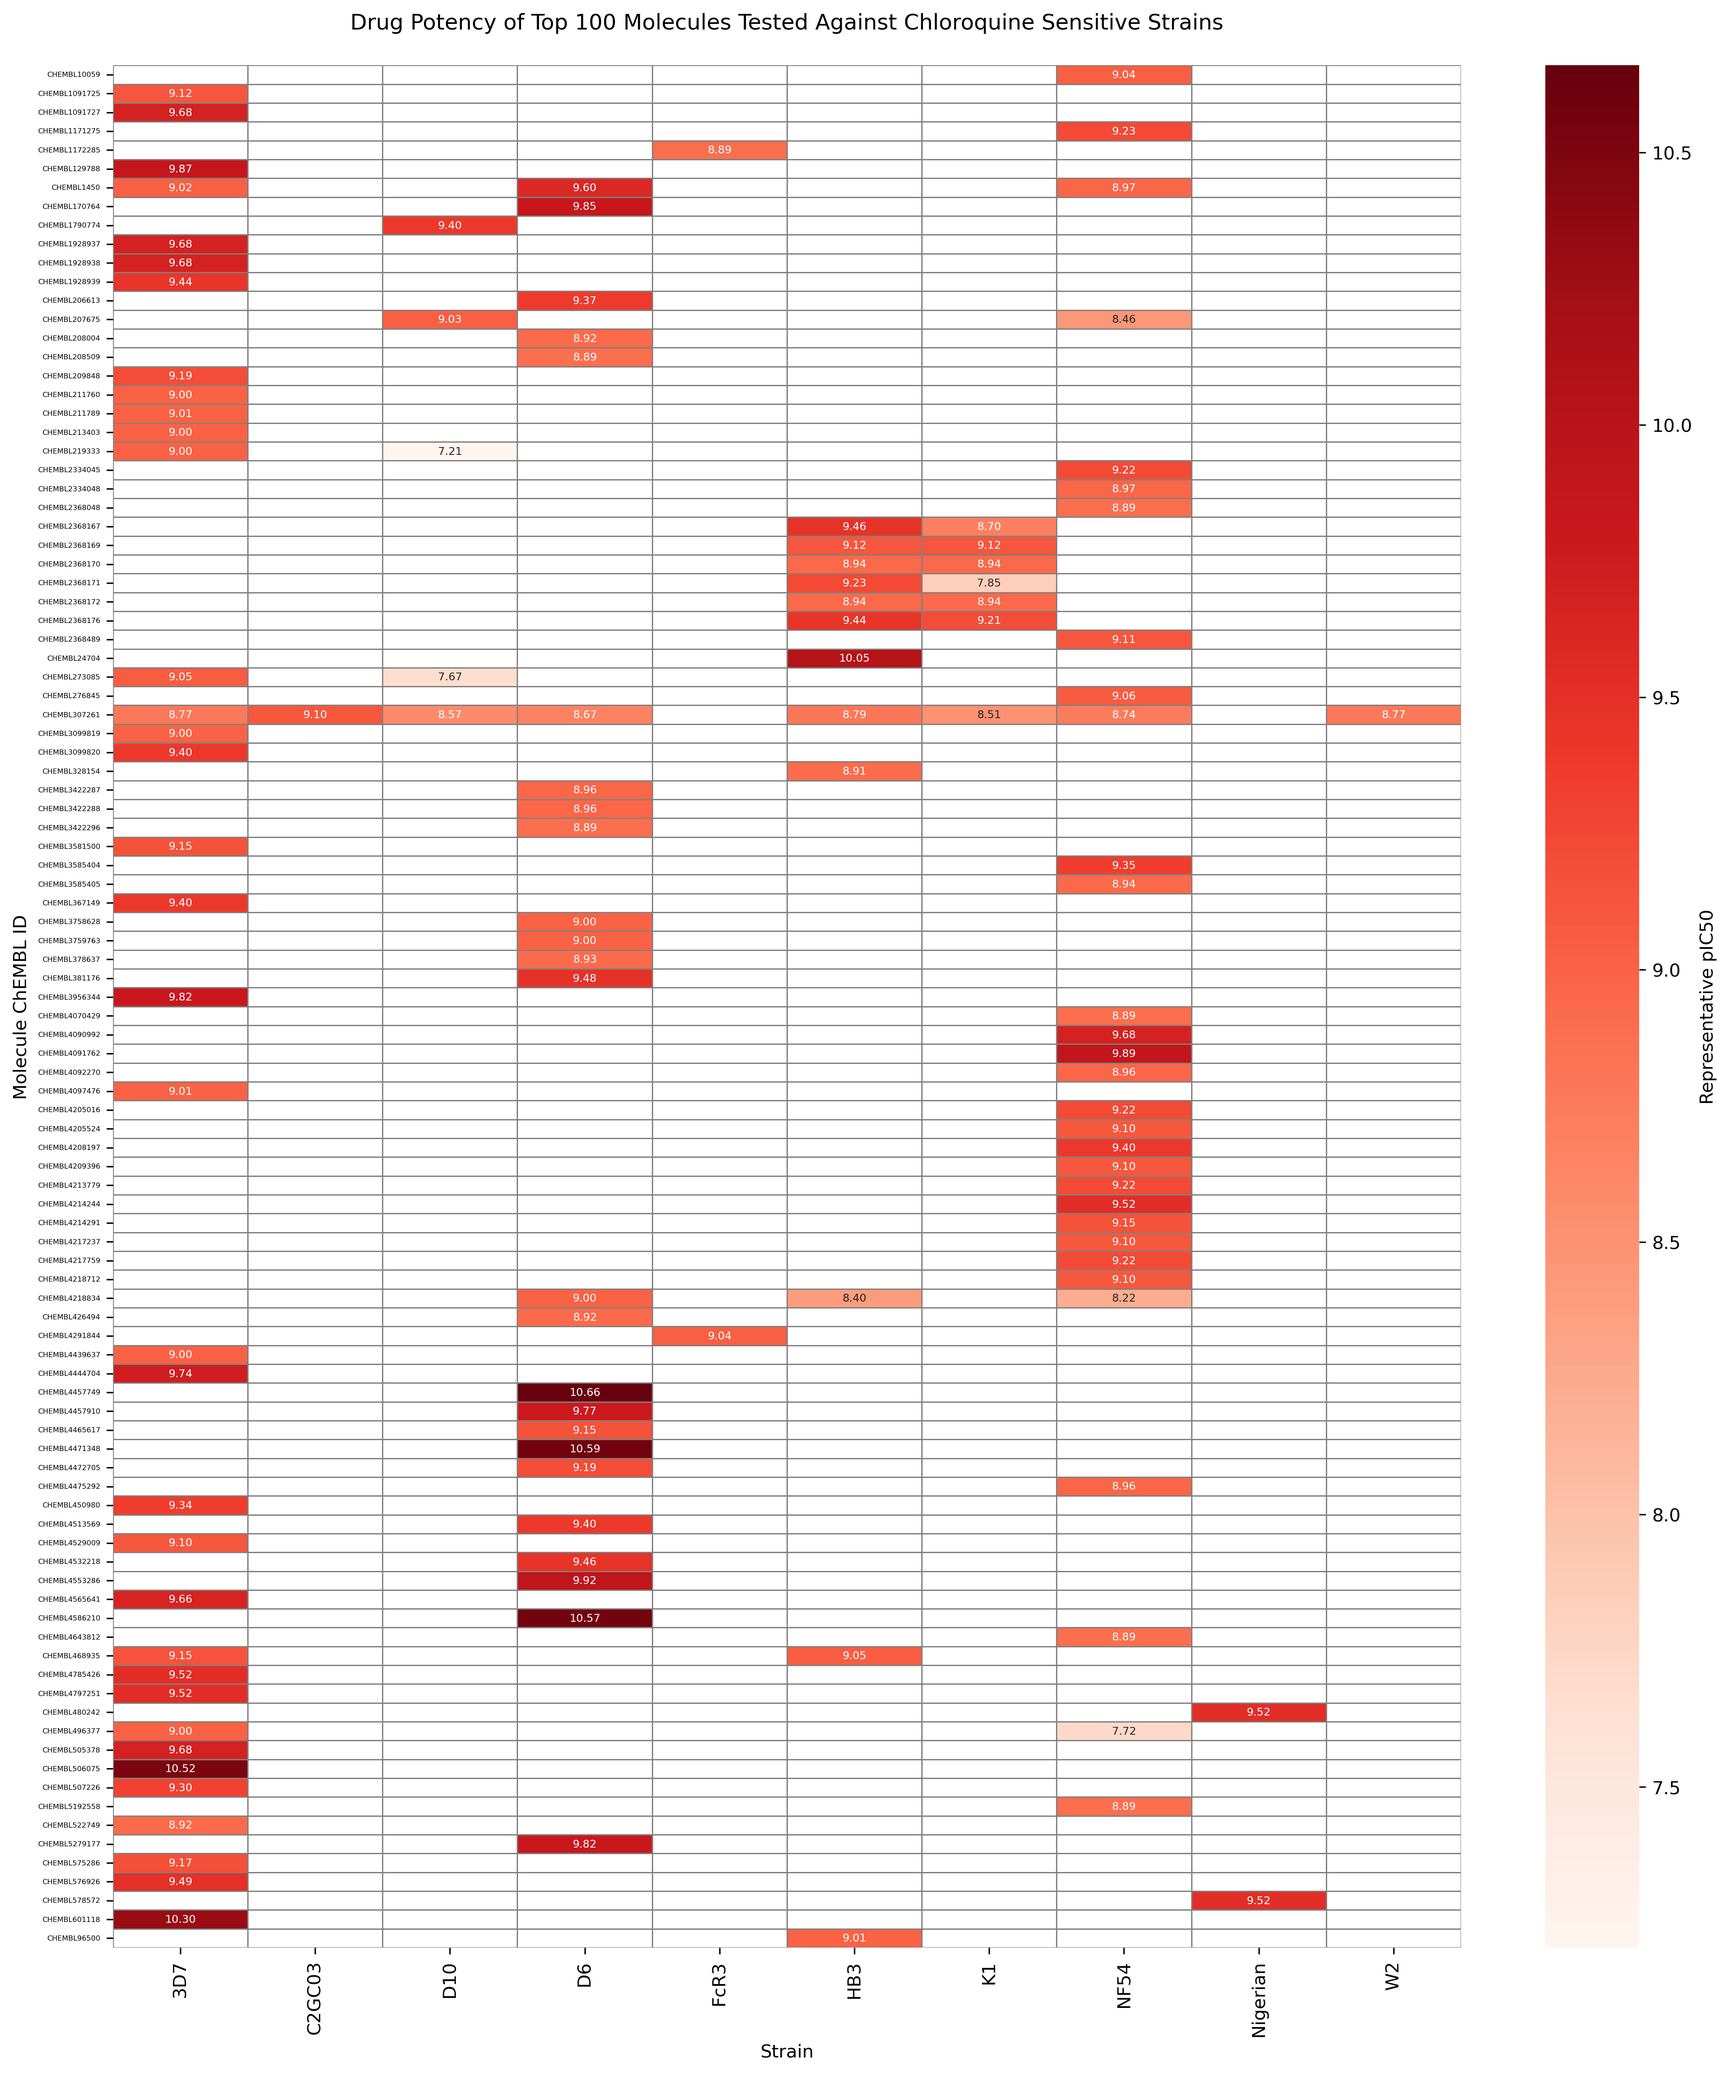
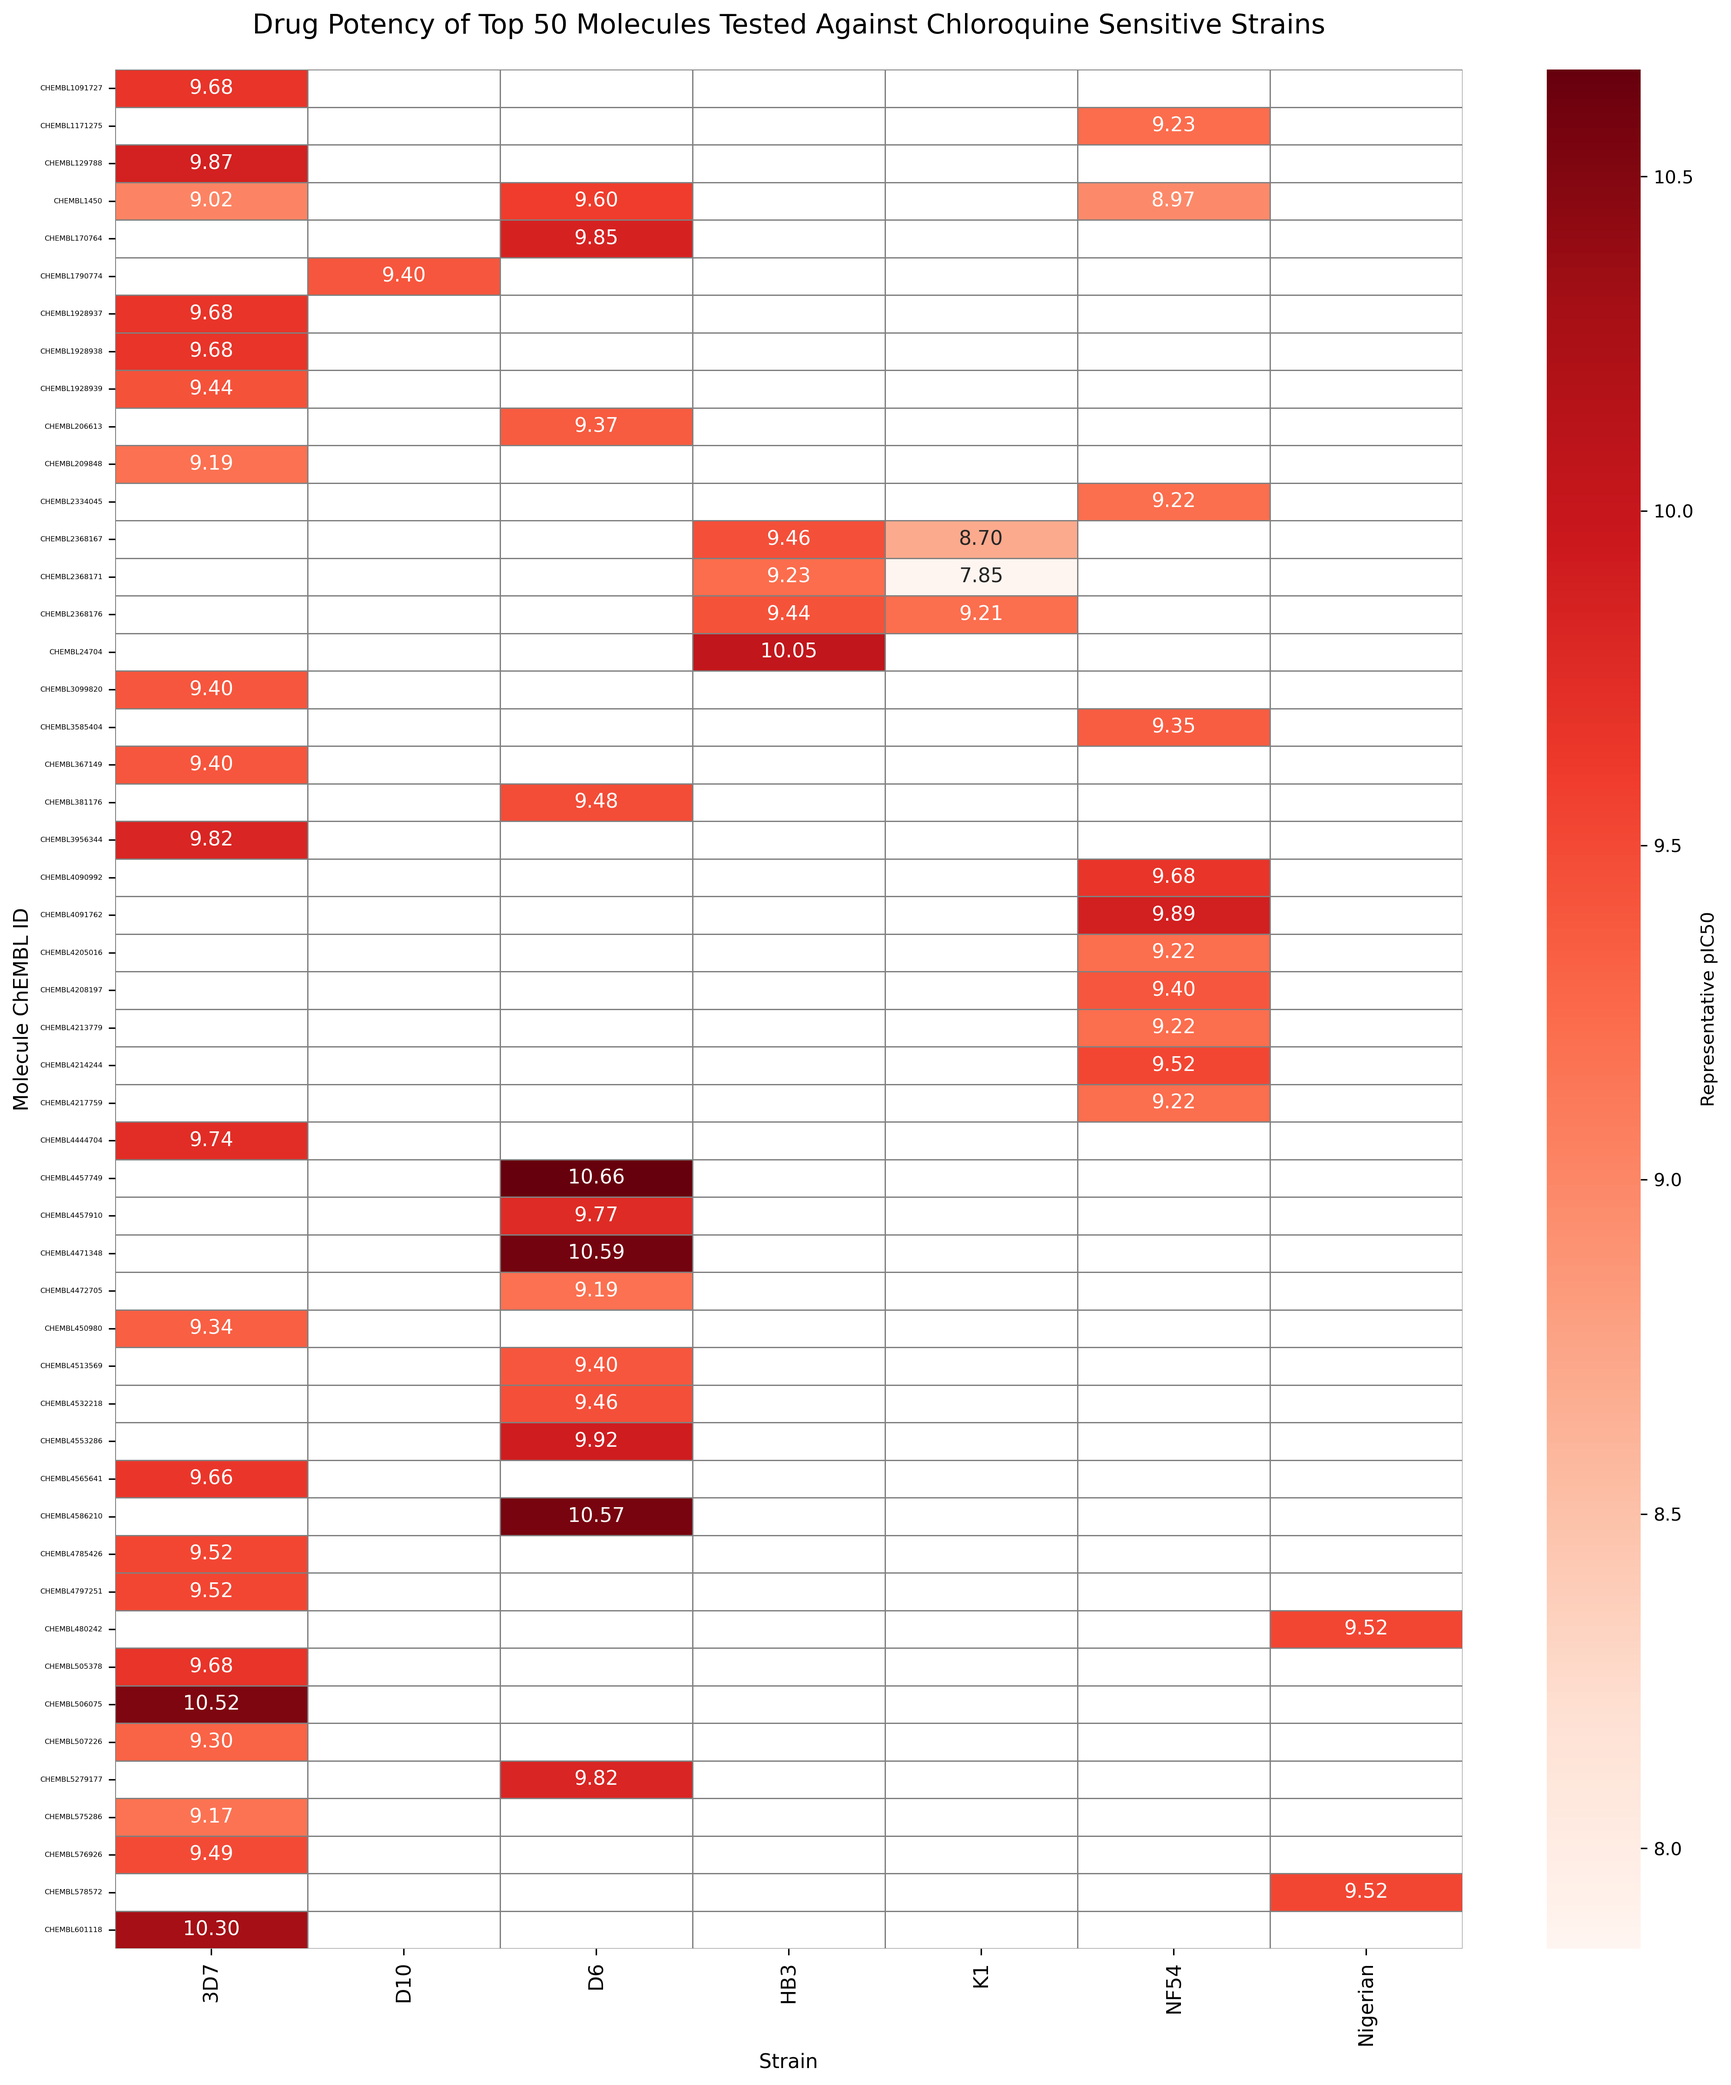
changes to heatmap from 100 to 50

Changed region(s): [[0.0, 0.0, 0.841, 0.9987], [0.9656, 0.437, 0.9967, 0.5306]]

diff --git a/p1_preprocessing/3 - Data visualizations before splits/drug_resistance/2_gen_drug_resistance_heatmap.py b/p1_preprocessing/3 - Data visualizations before splits/drug_resistance/2_gen_drug_resistance_heatmap.py
@@ -1,6 +1,10 @@
 ''' Description: This script uses the CSV file generated from the Step 1. 1_mapping_drug_resistance.py
-to create heatmaps for different drug resistance flags. It visualizes the drug potency of the top 100 molecules
-tested against various strains, categorized by their resistance flags.'''
+to create heatmaps for different drug resistance flags. It visualizes the drug potency of the top 50 molecules
+tested against various strains, categorized by their resistance flags.
+
+Requirements:
+* Final Data with Flags from step 1_mapping_drug_resistance.py
+'''
 
 # Imports
 import pandas as pd
@@ -15,22 +19,22 @@ df_clean = df.dropna(subset=['Representative_pIC50'])
 # Filter for "CQR"
 df_cqr = df_clean[df_clean['Flag Groups'].str.contains('CQR', na=False)]
 
-# Top 100 by Representative_pIC50
+# Top 50 by Representative_pIC50
 top_molecules = (
     df_cqr
     .groupby('Molecule_ChEMBL_ID')['Representative_pIC50']
     .max()
     .sort_values(ascending=False)
-    .head(100)
+    .head(50)
     .index
 )
 
 # Subset original CQR data to only top molecules
-df_top100_mols = df_cqr[df_cqr['Molecule_ChEMBL_ID'].isin(top_molecules)]
+df_top50_mols = df_cqr[df_cqr['Molecule_ChEMBL_ID'].isin(top_molecules)]
 
 
 # Pivot to matrix for heatmap
-heatmap_data = df_top100_mols.pivot_table(
+heatmap_data = df_top50_mols.pivot_table(
     index='Molecule_ChEMBL_ID',
     columns='standardized_strain',
     values='Representative_pIC50'
@@ -52,19 +56,19 @@ ax = sns.heatmap(
     annot=True,
     fmt='.2f',
     cbar_kws={'label': 'Representative pIC50'},
-    annot_kws={'size': 6},
+    annot_kws={'size': 11},
     linewidths=0.25,
     linecolor='gray'
 )
 
 # Rotate axis labels
-ax.set_xticklabels(ax.get_xticklabels(), rotation=90, ha='center', fontsize=10)
+ax.set_xticklabels(ax.get_xticklabels(), rotation=90, ha='center', fontsize=11)
 ax.set_yticklabels(ax.get_yticklabels(), rotation=0, fontsize=4)
 
 # Layout and title
-plt.title("Drug Potency of Top 100 Molecules Tested Against Chloroquine Resistant Strains", pad=20)
-plt.xlabel('Strain')
-plt.ylabel('Molecule ChEMBL ID')
+plt.title("Drug Potency of Top 50 Molecules Tested Against Chloroquine Resistant Strains", pad=20, fontsize=15)
+plt.xlabel('Strain', fontsize=11)
+plt.ylabel('Molecule ChEMBL ID', fontsize=11)
 plt.tight_layout()
 plt.subplots_adjust(bottom=0.25)
 plt.savefig('./p1_preprocessing/3 - Data visualizations before splits/drug_resistance/cqr_hm.png', dpi=300, bbox_inches='tight')
@@ -73,21 +77,21 @@ plt.savefig('./p1_preprocessing/3 - Data visualizations before splits/drug_resis
 # Filter for "MEFR"
 df_cqr = df_clean[df_clean['Flag Groups'].str.contains('MEFR', na=False)]
 
-# Top 100 by Representative_pIC50
+# Top 50 by Representative_pIC50
 top_molecules = (
     df_cqr
     .groupby('Molecule_ChEMBL_ID')['Representative_pIC50']
     .max()
     .sort_values(ascending=False)
-    .head(100)
+    .head(50)
     .index
 )
 
 # Subset original CQR data to only top molecules
-df_top100_mols = df_cqr[df_cqr['Molecule_ChEMBL_ID'].isin(top_molecules)]
+df_top50_mols = df_cqr[df_cqr['Molecule_ChEMBL_ID'].isin(top_molecules)]
 
 # Pivot to matrix for heatmap
-heatmap_data = df_top100_mols.pivot_table(
+heatmap_data = df_top50_mols.pivot_table(
     index='Molecule_ChEMBL_ID',
     columns='standardized_strain',
     values='Representative_pIC50'
@@ -109,19 +113,19 @@ ax = sns.heatmap(
     annot=True,
     fmt='.2f',
     cbar_kws={'label': 'Representative pIC50'},
-    annot_kws={'size': 6},
+    annot_kws={'size': 11},
     linewidths=0.25,
     linecolor='gray'
 )
 
 # Rotate axis labels
-ax.set_xticklabels(ax.get_xticklabels(), rotation=90, ha='center', fontsize=10)
+ax.set_xticklabels(ax.get_xticklabels(), rotation=90, ha='center', fontsize=11)
 ax.set_yticklabels(ax.get_yticklabels(), rotation=0, fontsize=4)
 
 # Adjust layout and title
-plt.title("Drug Potency of Top 100 Molecules Tested Against Mefloquine Resistant Strains", pad=20)
-plt.xlabel('Strain')
-plt.ylabel('Molecule ChEMBL ID')
+plt.title("Drug Potency of Top 50 Molecules Tested Against Mefloquine Resistant Strains", pad=20, fontsize=15)
+plt.xlabel('Strain', fontsize=11)
+plt.ylabel('Molecule ChEMBL ID', fontsize=11)
 plt.tight_layout()
 plt.subplots_adjust(bottom=0.25) 
 plt.savefig('./p1_preprocessing/3 - Data visualizations before splits/drug_resistance/mefr_hm.png', dpi=300, bbox_inches='tight')
@@ -130,21 +134,21 @@ plt.savefig('./p1_preprocessing/3 - Data visualizations before splits/drug_resis
 # Filter for "PYRR"
 df_cqr = df_clean[df_clean['Flag Groups'].str.contains('PYRR', na=False)]
 
-# Top 100 by Representative_pIC50
+# Top 50 by Representative_pIC50
 top_molecules = (
     df_cqr
     .groupby('Molecule_ChEMBL_ID')['Representative_pIC50']
     .max()
     .sort_values(ascending=False)
-    .head(100)
+    .head(50)
     .index
 )
 
 # Subset original CQR data to only top molecules
-df_top100_mols = df_cqr[df_cqr['Molecule_ChEMBL_ID'].isin(top_molecules)]
+df_top50_mols = df_cqr[df_cqr['Molecule_ChEMBL_ID'].isin(top_molecules)]
 
 # Pivot to matrix for heatmap
-heatmap_data = df_top100_mols.pivot_table(
+heatmap_data = df_top50_mols.pivot_table(
     index='Molecule_ChEMBL_ID',
     columns='standardized_strain',
     values='Representative_pIC50'
@@ -166,19 +170,19 @@ ax = sns.heatmap(
     annot=True,
     fmt='.2f',
     cbar_kws={'label': 'Representative pIC50'},
-    annot_kws={'size': 6},
+    annot_kws={'size': 11},
     linewidths=0.25,
     linecolor='gray'
 )
 
 # Rotate axis labels
-ax.set_xticklabels(ax.get_xticklabels(), rotation=90, ha='center', fontsize=10)
+ax.set_xticklabels(ax.get_xticklabels(), rotation=90, ha='center', fontsize=11)
 ax.set_yticklabels(ax.get_yticklabels(), rotation=0, fontsize=4)
 
 # Adjust layout and title
-plt.title("Drug Potency of Top 100 Molecules Tested Against Pyrimethamine Resistant Strains", pad=20)
-plt.xlabel('Strain')
-plt.ylabel('Molecule ChEMBL ID')
+plt.title("Drug Potency of Top 50 Molecules Tested Against Pyrimethamine Resistant Strains", pad=20, fontsize=15)
+plt.xlabel('Strain', fontsize=11)
+plt.ylabel('Molecule ChEMBL ID', fontsize=11)
 plt.tight_layout()
 plt.subplots_adjust(bottom=0.25) 
 plt.savefig('./p1_preprocessing/3 - Data visualizations before splits/drug_resistance/pyrr_hm.png', dpi=300, bbox_inches='tight')
@@ -187,21 +191,21 @@ plt.savefig('./p1_preprocessing/3 - Data visualizations before splits/drug_resis
 # Filter for "CQS"
 df_cqr = df_clean[df_clean['Flag Groups'].str.contains('CQS', na=False)]
 
-# Top 100 by Representative_pIC50
+# Top 50 by Representative_pIC50
 top_molecules = (
     df_cqr
     .groupby('Molecule_ChEMBL_ID')['Representative_pIC50']
     .max()
     .sort_values(ascending=False)
-    .head(100)
+    .head(50)
     .index
 )
 
 # Subset the original CQR data to only top molecules
-df_top100_mols = df_cqr[df_cqr['Molecule_ChEMBL_ID'].isin(top_molecules)]
+df_top50_mols = df_cqr[df_cqr['Molecule_ChEMBL_ID'].isin(top_molecules)]
 
 # Pivot to matrix for heatmap
-heatmap_data = df_top100_mols.pivot_table(
+heatmap_data = df_top50_mols.pivot_table(
     index='Molecule_ChEMBL_ID',
     columns='standardized_strain',
     values='Representative_pIC50'
@@ -223,19 +227,19 @@ ax = sns.heatmap(
     annot=True,
     fmt='.2f',
     cbar_kws={'label': 'Representative pIC50'},
-    annot_kws={'size': 6},
+    annot_kws={'size': 11},
     linewidths=0.25,
     linecolor='gray'
 )
 
 # Rotate axis labels
-ax.set_xticklabels(ax.get_xticklabels(), rotation=90, ha='center', fontsize=10)
+ax.set_xticklabels(ax.get_xticklabels(), rotation=90, ha='center', fontsize=11)
 ax.set_yticklabels(ax.get_yticklabels(), rotation=0, fontsize=4)
 
 # Adjust layout and title
-plt.title("Drug Potency of Top 100 Molecules Tested Against Chloroquine Sensitive Strains", pad=20)
-plt.xlabel('Strain')
-plt.ylabel('Molecule ChEMBL ID')
+plt.title("Drug Potency of Top 50 Molecules Tested Against Chloroquine Sensitive Strains", pad=20, fontsize=15)
+plt.xlabel('Strain', fontsize=11)
+plt.ylabel('Molecule ChEMBL ID', fontsize=11)
 plt.tight_layout()
 plt.subplots_adjust(bottom=0.25) 
 plt.savefig('./p1_preprocessing/3 - Data visualizations before splits/drug_resistance/cqs_hm.png', dpi=300, bbox_inches='tight')
@@ -244,22 +248,22 @@ plt.savefig('./p1_preprocessing/3 - Data visualizations before splits/drug_resis
 # Filter for "MEFS"
 df_cqr = df_clean[df_clean['Flag Groups'].str.contains('MEFS', na=False)]
 
-# Top 100 by Representative_pIC50
+# Top 50 by Representative_pIC50
 top_molecules = (
     df_cqr
     .groupby('Molecule_ChEMBL_ID')['Representative_pIC50']
     .max()
     .sort_values(ascending=False)
-    .head(100)
+    .head(50)
     .index
 )
 
 # Subset the original CQR data to only top molecules
-df_top100_mols = df_cqr[df_cqr['Molecule_ChEMBL_ID'].isin(top_molecules)]
+df_top50_mols = df_cqr[df_cqr['Molecule_ChEMBL_ID'].isin(top_molecules)]
 
 
 # Pivot to matrix for heatmap
-heatmap_data = df_top100_mols.pivot_table(
+heatmap_data = df_top50_mols.pivot_table(
     index='Molecule_ChEMBL_ID',
     columns='standardized_strain',
     values='Representative_pIC50'
@@ -282,19 +286,19 @@ ax = sns.heatmap(
     annot=True,
     fmt='.2f',
     cbar_kws={'label': 'Representative pIC50'},
-    annot_kws={'size': 6},
+    annot_kws={'size': 11},
     linewidths=0.25,
     linecolor='gray'
 )
 
 # Rotate axis labels
-ax.set_xticklabels(ax.get_xticklabels(), rotation=90, ha='center', fontsize=10)
+ax.set_xticklabels(ax.get_xticklabels(), rotation=90, ha='center', fontsize=11)
 ax.set_yticklabels(ax.get_yticklabels(), rotation=0, fontsize=4)
 
 # 8. Adjust layout and title
-plt.title("Drug Potency of Top 100 Molecules Tested Against Mefloquine Sensitive Strains", pad=20)
-plt.xlabel('Strain')
-plt.ylabel('Molecule ChEMBL ID')
+plt.title("Drug Potency of Top 50 Molecules Tested Against Mefloquine Sensitive Strains", pad=20, fontsize=15)
+plt.xlabel('Strain', fontsize=11)
+plt.ylabel('Molecule ChEMBL ID', fontsize=11)
 plt.tight_layout()
 plt.subplots_adjust(bottom=0.25) 
 plt.savefig('./p1_preprocessing/3 - Data visualizations before splits/drug_resistance/mefs_hm.png', dpi=300, bbox_inches='tight')
